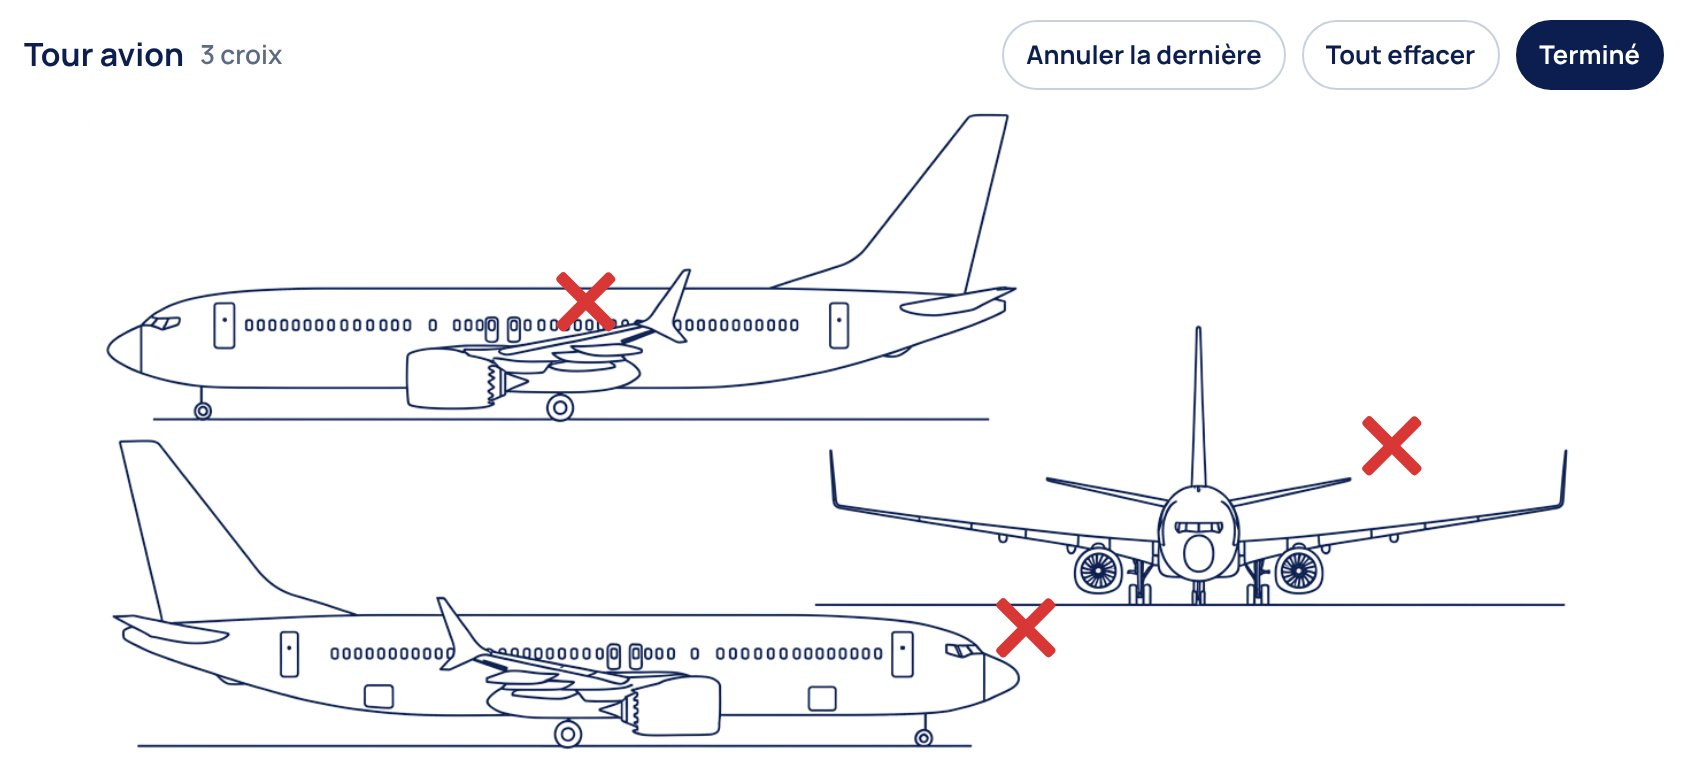
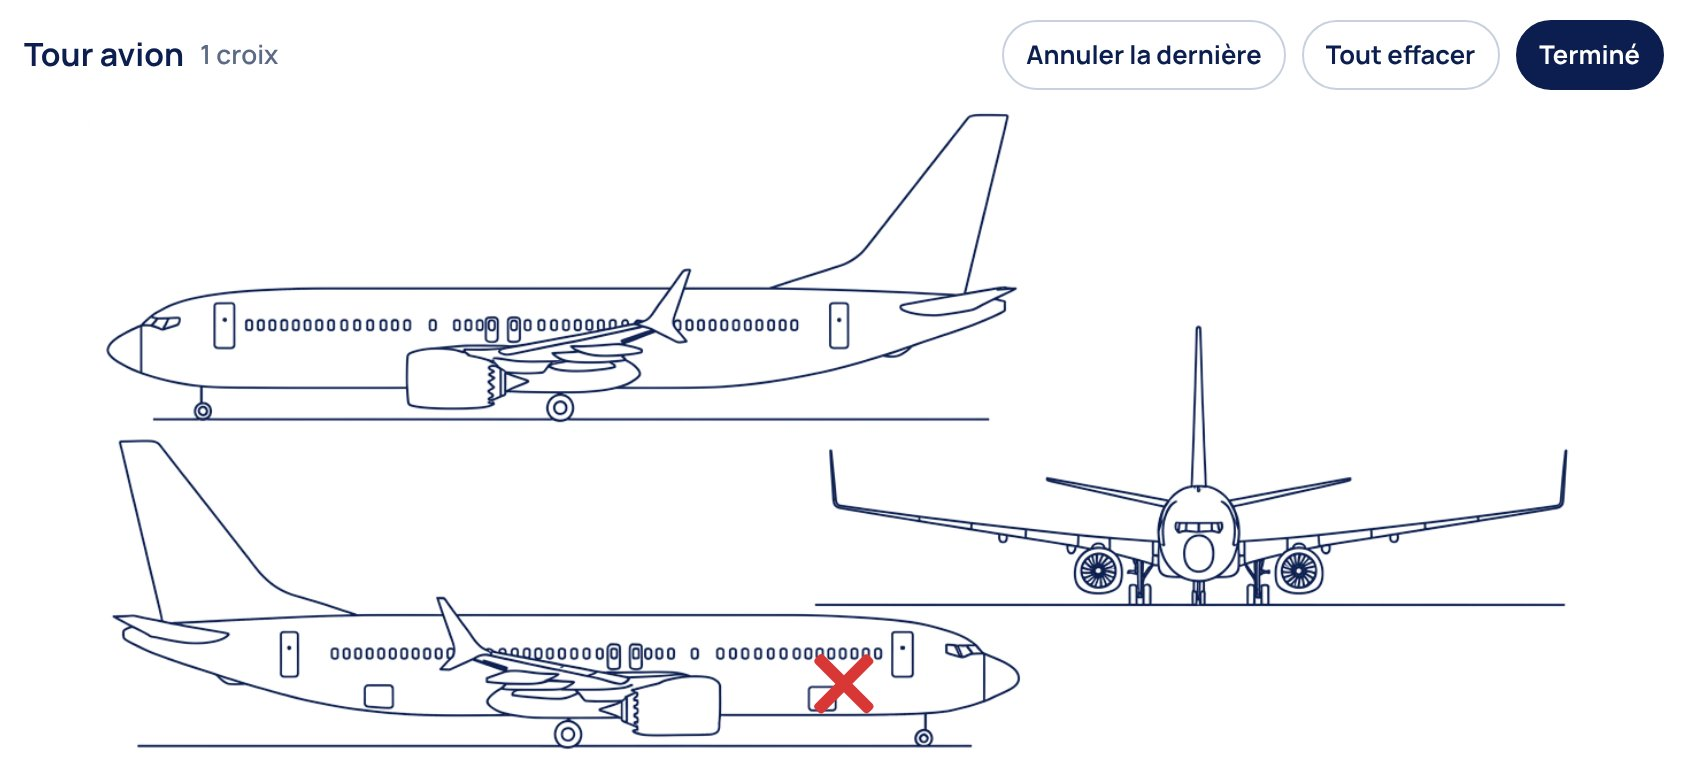
Manuel : une seule croix, sur le fuselage, dans les captures Nightstop
Claude-Session: https://claude.ai/code/session_01BEmDqkNWhievWY6FKKJQpQ

diff --git a/manuel.html b/manuel.html
@@ -132,7 +132,7 @@ mark{background:var(--mark);color:inherit;border-radius:3px;padding:0 1px}
 <script>
 // Contenu du manuel : [groupe, id, titre, captures (manuel/img/*.jpg), texte HTML]
 // IMGV : à changer quand des captures sont refaites (sinon le navigateur garde les anciennes)
-const IMGV = '9';
+const IMGV = '10';
 const I = (f, c) => [f, c];
 // gros plans (captures recadrées, haute définition) affichés sous le texte de la rubrique
 const ZM = {
